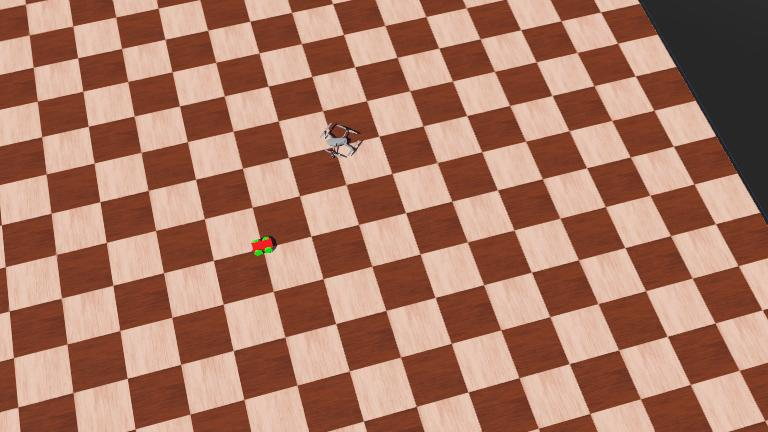
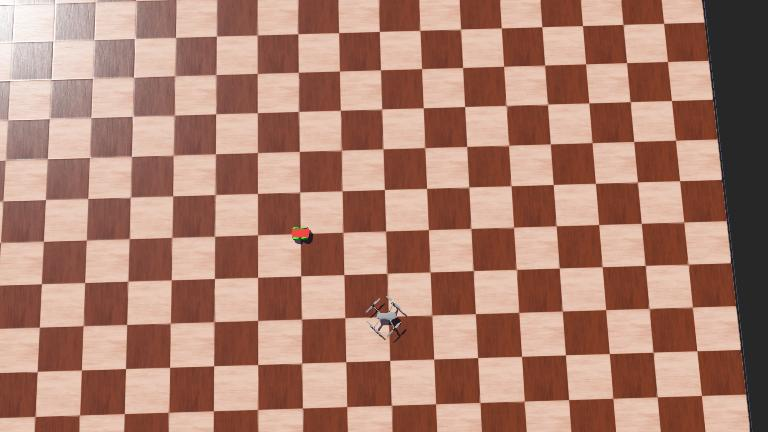
First working version

diff --git a/formation_control/formation_control/ground_robot_driver.py b/formation_control/formation_control/ground_robot_driver.py
@@ -1,9 +1,8 @@
 import rclpy
 from rclpy.impl import rcutils_logger
 
-from geometry_msgs.msg import Twist
-from interfaces.msg import Signal
-from interfaces.msg import SignalArray
+from geometry_msgs.msg import Twist, Vector3
+from interfaces.msg import Signal, SignalArray
 
 HALF_DISTANCE_BETWEEN_WHEELS = 0.045
 WHEEL_RADIUS = 0.025
@@ -18,6 +17,9 @@ class GroundRobotDriver:
         self.receiver = self.__robot.getDevice('ground_receiver')
         self.receiver.enable(self.__timestep)
         self.receiver.setChannel(1)
+
+        self.imu = self.__robot.getDevice('inertial_unit')
+        self.imu.enable(self.__timestep)
 
 
 
@@ -39,11 +41,13 @@ class GroundRobotDriver:
         #self.__right_motor.setVelocity(0)
 
         self.__target_twist = Twist()
+        self.counter = 0
 
         rclpy.init(args=None)
         self.__node = rclpy.create_node('ground_robot_driver')
         self.__node.create_subscription(Twist, 'cmd_vel', self.__cmd_vel_callback, 1)
         self.signal_pub = self.__node.create_publisher(SignalArray, 'ground_robot/signals', 10)
+        self.pose_pub = self.__node.create_publisher(Vector3, 'ground_robot/pose', 10)
 
     def __cmd_vel_callback(self, twist):
         self.__target_twist = twist
@@ -53,12 +57,24 @@ class GroundRobotDriver:
         arr = []
         signal_arr_msg = SignalArray()
 
-        speed = 3.0
+        turn_left = 1
+        turn_right = 1
 
-        self.wheels[0].setVelocity(speed)
-        self.wheels[1].setVelocity(speed)
-        self.wheels[2].setVelocity(speed)
-        self.wheels[3].setVelocity(speed)
+        speed = 0.5
+        if self.counter < 300:
+            turn_right = 0.70
+            turn_left = 1
+        elif self.counter < 600:
+            turn_right = -1
+            turn_left = -1
+            self.counter = 0
+
+        self.counter += 1
+
+        self.wheels[0].setVelocity(speed * turn_right)
+        self.wheels[1].setVelocity(speed * turn_left)
+        self.wheels[2].setVelocity(speed * turn_right)
+        self.wheels[3].setVelocity(speed * turn_left)
 
         if self.receiver.getQueueLength() > 0:
             signal_msg = Signal()
@@ -75,6 +91,14 @@ class GroundRobotDriver:
 
         while self.receiver.getQueueLength() > 0:
             self.receiver.nextPacket()
+
+
+        pose_msg = Vector3()
+        rpy = self.imu.getRollPitchYaw()
+        pose_msg.x = rpy[0]
+        pose_msg.y = rpy[1]
+        pose_msg.z = rpy[2]
+        self.pose_pub.publish(pose_msg)
 
         #forward_speed = self.__target_twist.linear.x
         #angular_speed = self.__target_twist.angular.z

diff --git a/formation_control/formation_control/formation_controller.py b/formation_control/formation_control/formation_controller.py
@@ -1,9 +1,10 @@
 import rclpy
 from rclpy.node import Node
 import numpy as np
-from geometry_msgs.msg import Twist
+from geometry_msgs.msg import Twist, Vector3
 from interfaces.msg import SignalArray
 from .gradient import gradient
+from rclpy.impl import rcutils_logger
 
 
 class FormationControl(Node):
@@ -12,24 +13,44 @@ class FormationControl(Node):
         qos_policy = rclpy.qos.QoSProfile(reliability=rclpy.qos.ReliabilityPolicy.BEST_EFFORT,
                                           history=rclpy.qos.HistoryPolicy.KEEP_LAST,
                                           depth=1)
-        self.subscription = self.create_subscription(SignalArray, '/ground_robot/signals', self.signal_callback, qos_profile=qos_policy)
+        self.signal_sub = self.create_subscription(SignalArray, '/ground_robot/signals', self.signal_callback, qos_profile=qos_policy)
+        self.pose_sub = self.create_subscription(Vector3, '/ground_robot/pose', self.pose_callback, qos_profile=qos_policy)
         self.vel_pub = self.create_publisher(Twist, '/drone1/cmd_vel', 10)
+        self.logger = rcutils_logger.RcutilsLogger()
+
+        self.gr_yaw = 0
+
+    def pose_callback(self, msg):
+        self.gr_yaw = msg.z
+        
+        self.logger.info('yaw %g' % self.gr_yaw)
 
 
     def signal_callback(self, msg):
         signal = msg.signals[0]
 
         pos = self.calc_pos_from_signal(signal)
+        self.logger.info('x %g, y %g' % (pos[0], pos[1]))
 
-        goal = [1,1]
-        obstacles = [[10,10],[-10,-10]]
+        goal = np.array([1,1])
+
+        rot = np.array([[0, 1],
+                        [-1, 0]])
+        rot_mat = np.array([[np.cos(self.gr_yaw), -np.sin(self.gr_yaw)],
+                           [np.sin(self.gr_yaw), np.cos(self.gr_yaw)]])
+        #goal = rot @ goal
+        #goal = rot_mat @ goal
+
+        obstacles = [[100,100],[-100,-100]]
 
         grad = gradient(pos, goal, obstacles)
+        grad = rot @ grad
+        grad = rot_mat @ grad
 
 
         vel_msg = Twist()
-        vel_msg.linear.x = -grad[0] * 20
-        vel_msg.linear.y = -grad[1] * 20
+        vel_msg.linear.x = -grad[0] * 1000
+        vel_msg.linear.y = -grad[1] * 1000
 
         self.vel_pub.publish(vel_msg)
 
@@ -44,6 +65,11 @@ class FormationControl(Node):
         vec_2 = np.array([x,y,0])
 
         projected = vec_2 * np.dot(vec_2, vec_1) / np.dot(vec_2, vec_2)
+        projected = projected[:2]
+
+        rot = np.array([[0, -1],
+                        [1, 0]])
+        projected = rot @ projected
 
         return [projected[0], projected[1]]
 

diff --git a/formation_control/formation_control/gradient.py b/formation_control/formation_control/gradient.py
@@ -1,23 +1,22 @@
 import numpy as np
 
-KP_POS = 1
+KP_POS = 0.1
 KP_NEG = 1
 OBST_RADIUS = 1
 
 def gradient_attraction(pos, goal):
     d_x = pos[0] - goal[0]
     d_y = pos[1] - goal[1]
-    d_star = 0.2
+    d_star = 0.1
 
     dist = np.sqrt(d_x**2 + d_y**2)
 
     if dist <= d_star:
         x = 1 * KP_POS * d_x
         y = 1 * KP_POS * d_y
-
     else:
-        x = KP_POS * d_star * d_x / dist
-        y = KP_POS * d_star * d_y / dist
+        x = 1 * KP_POS * d_star * d_x / dist
+        y = 1 * KP_POS * d_star * d_y / dist
 
     return [x,y]
 
